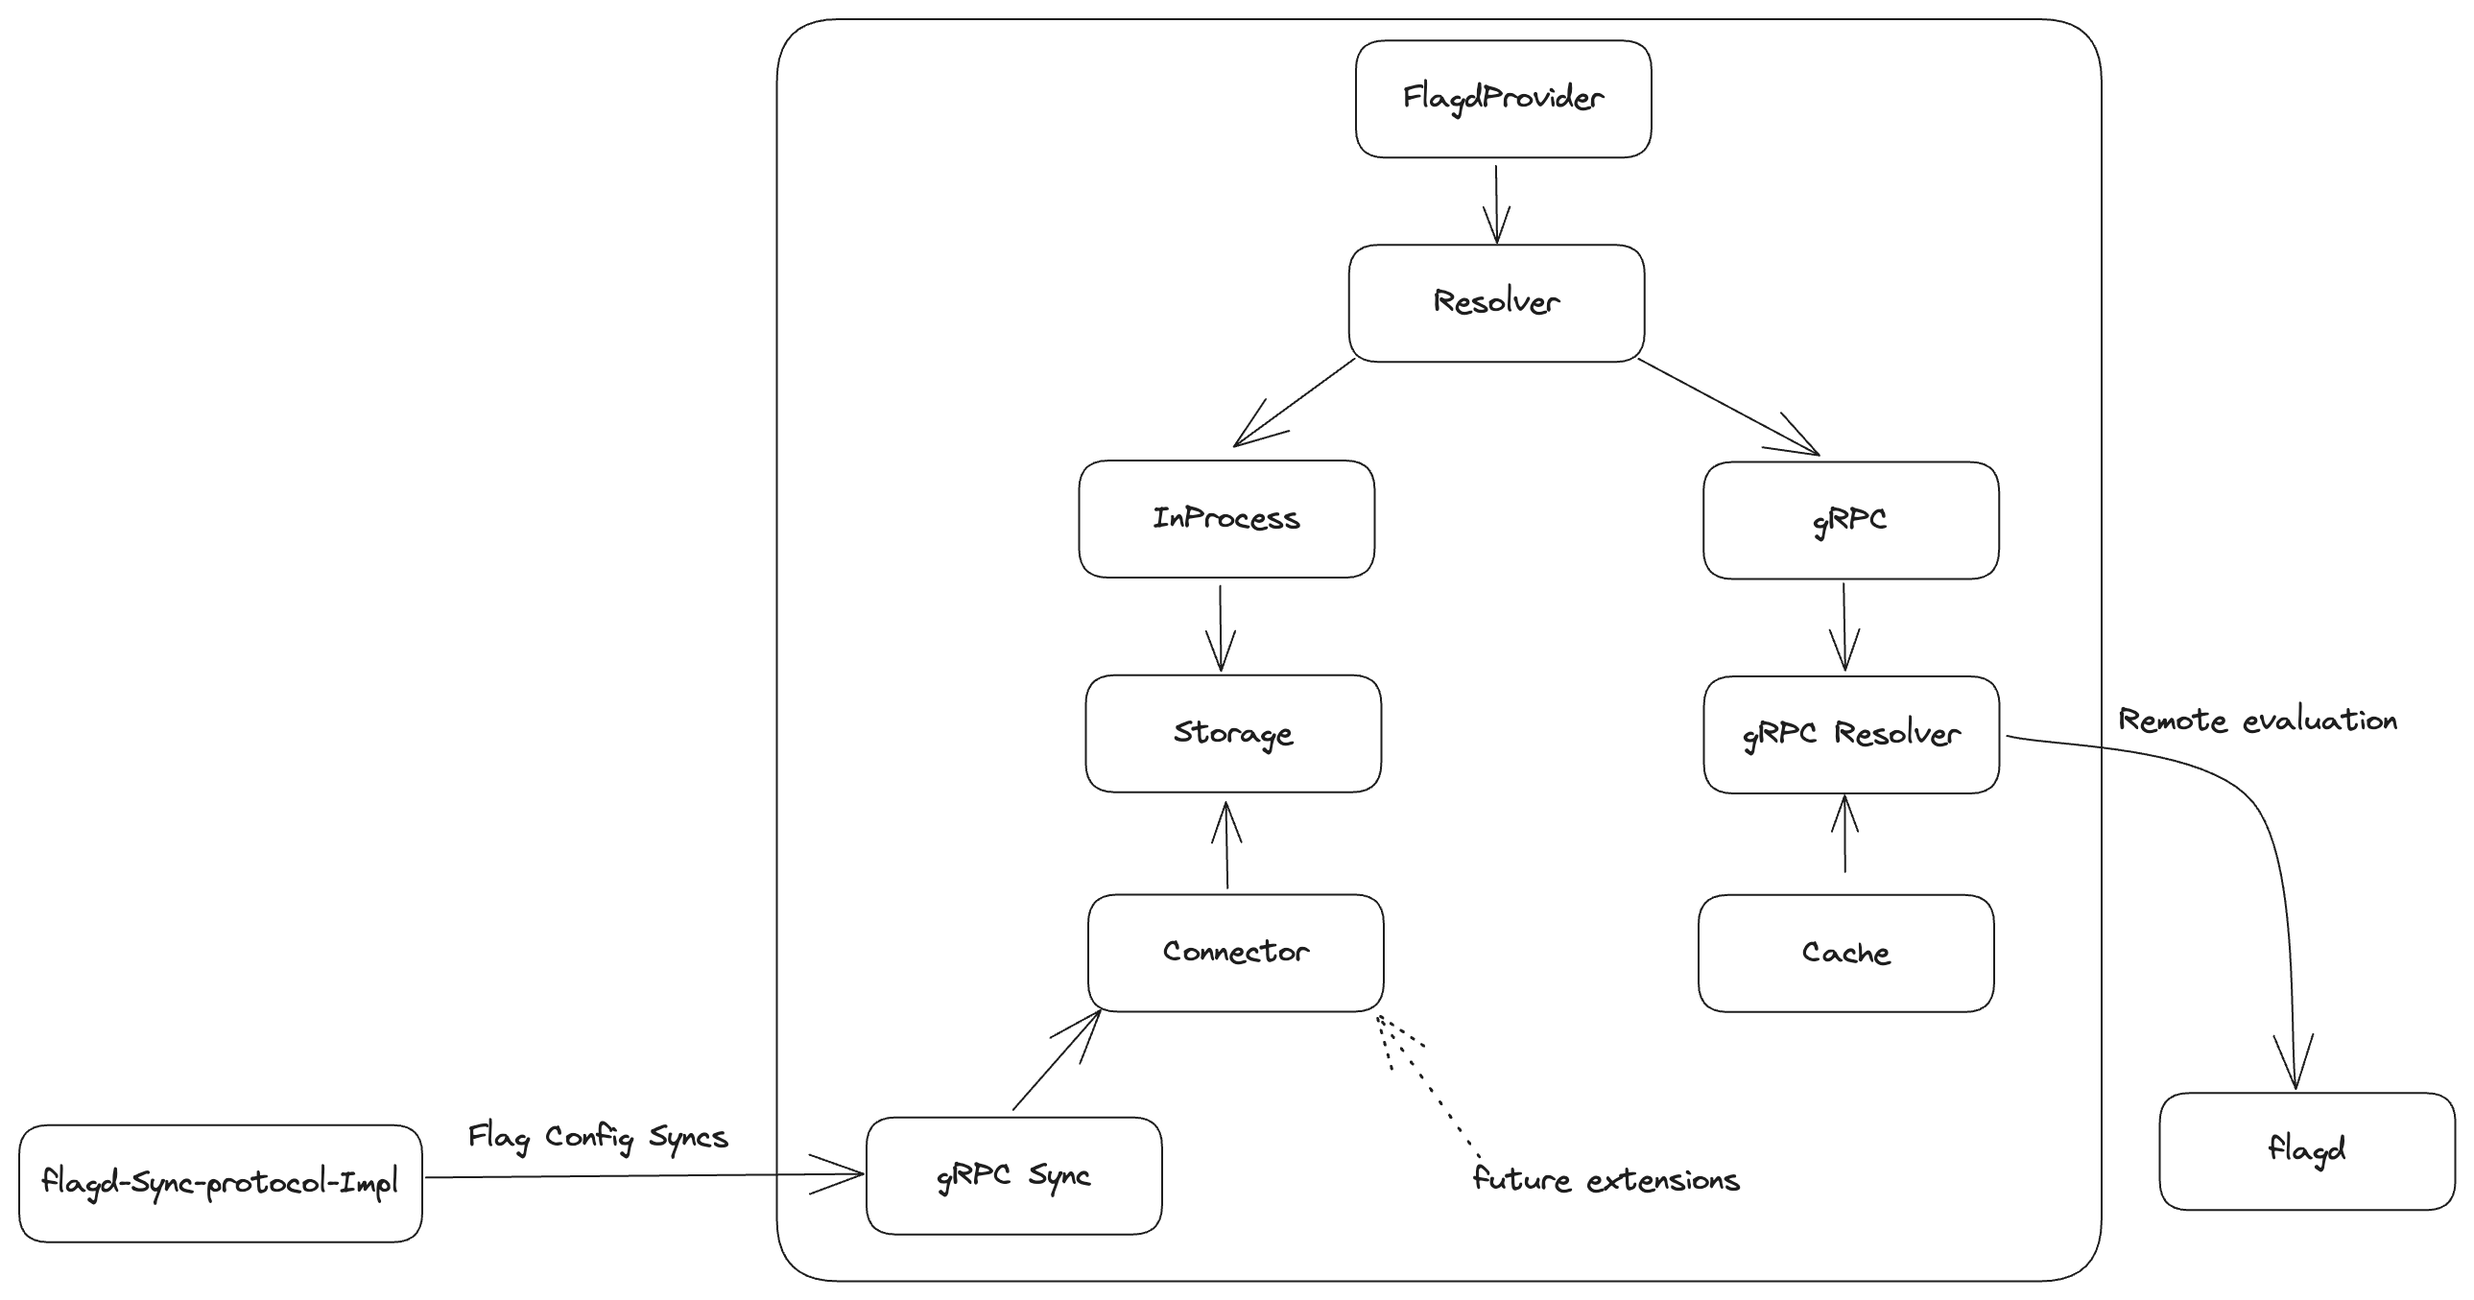
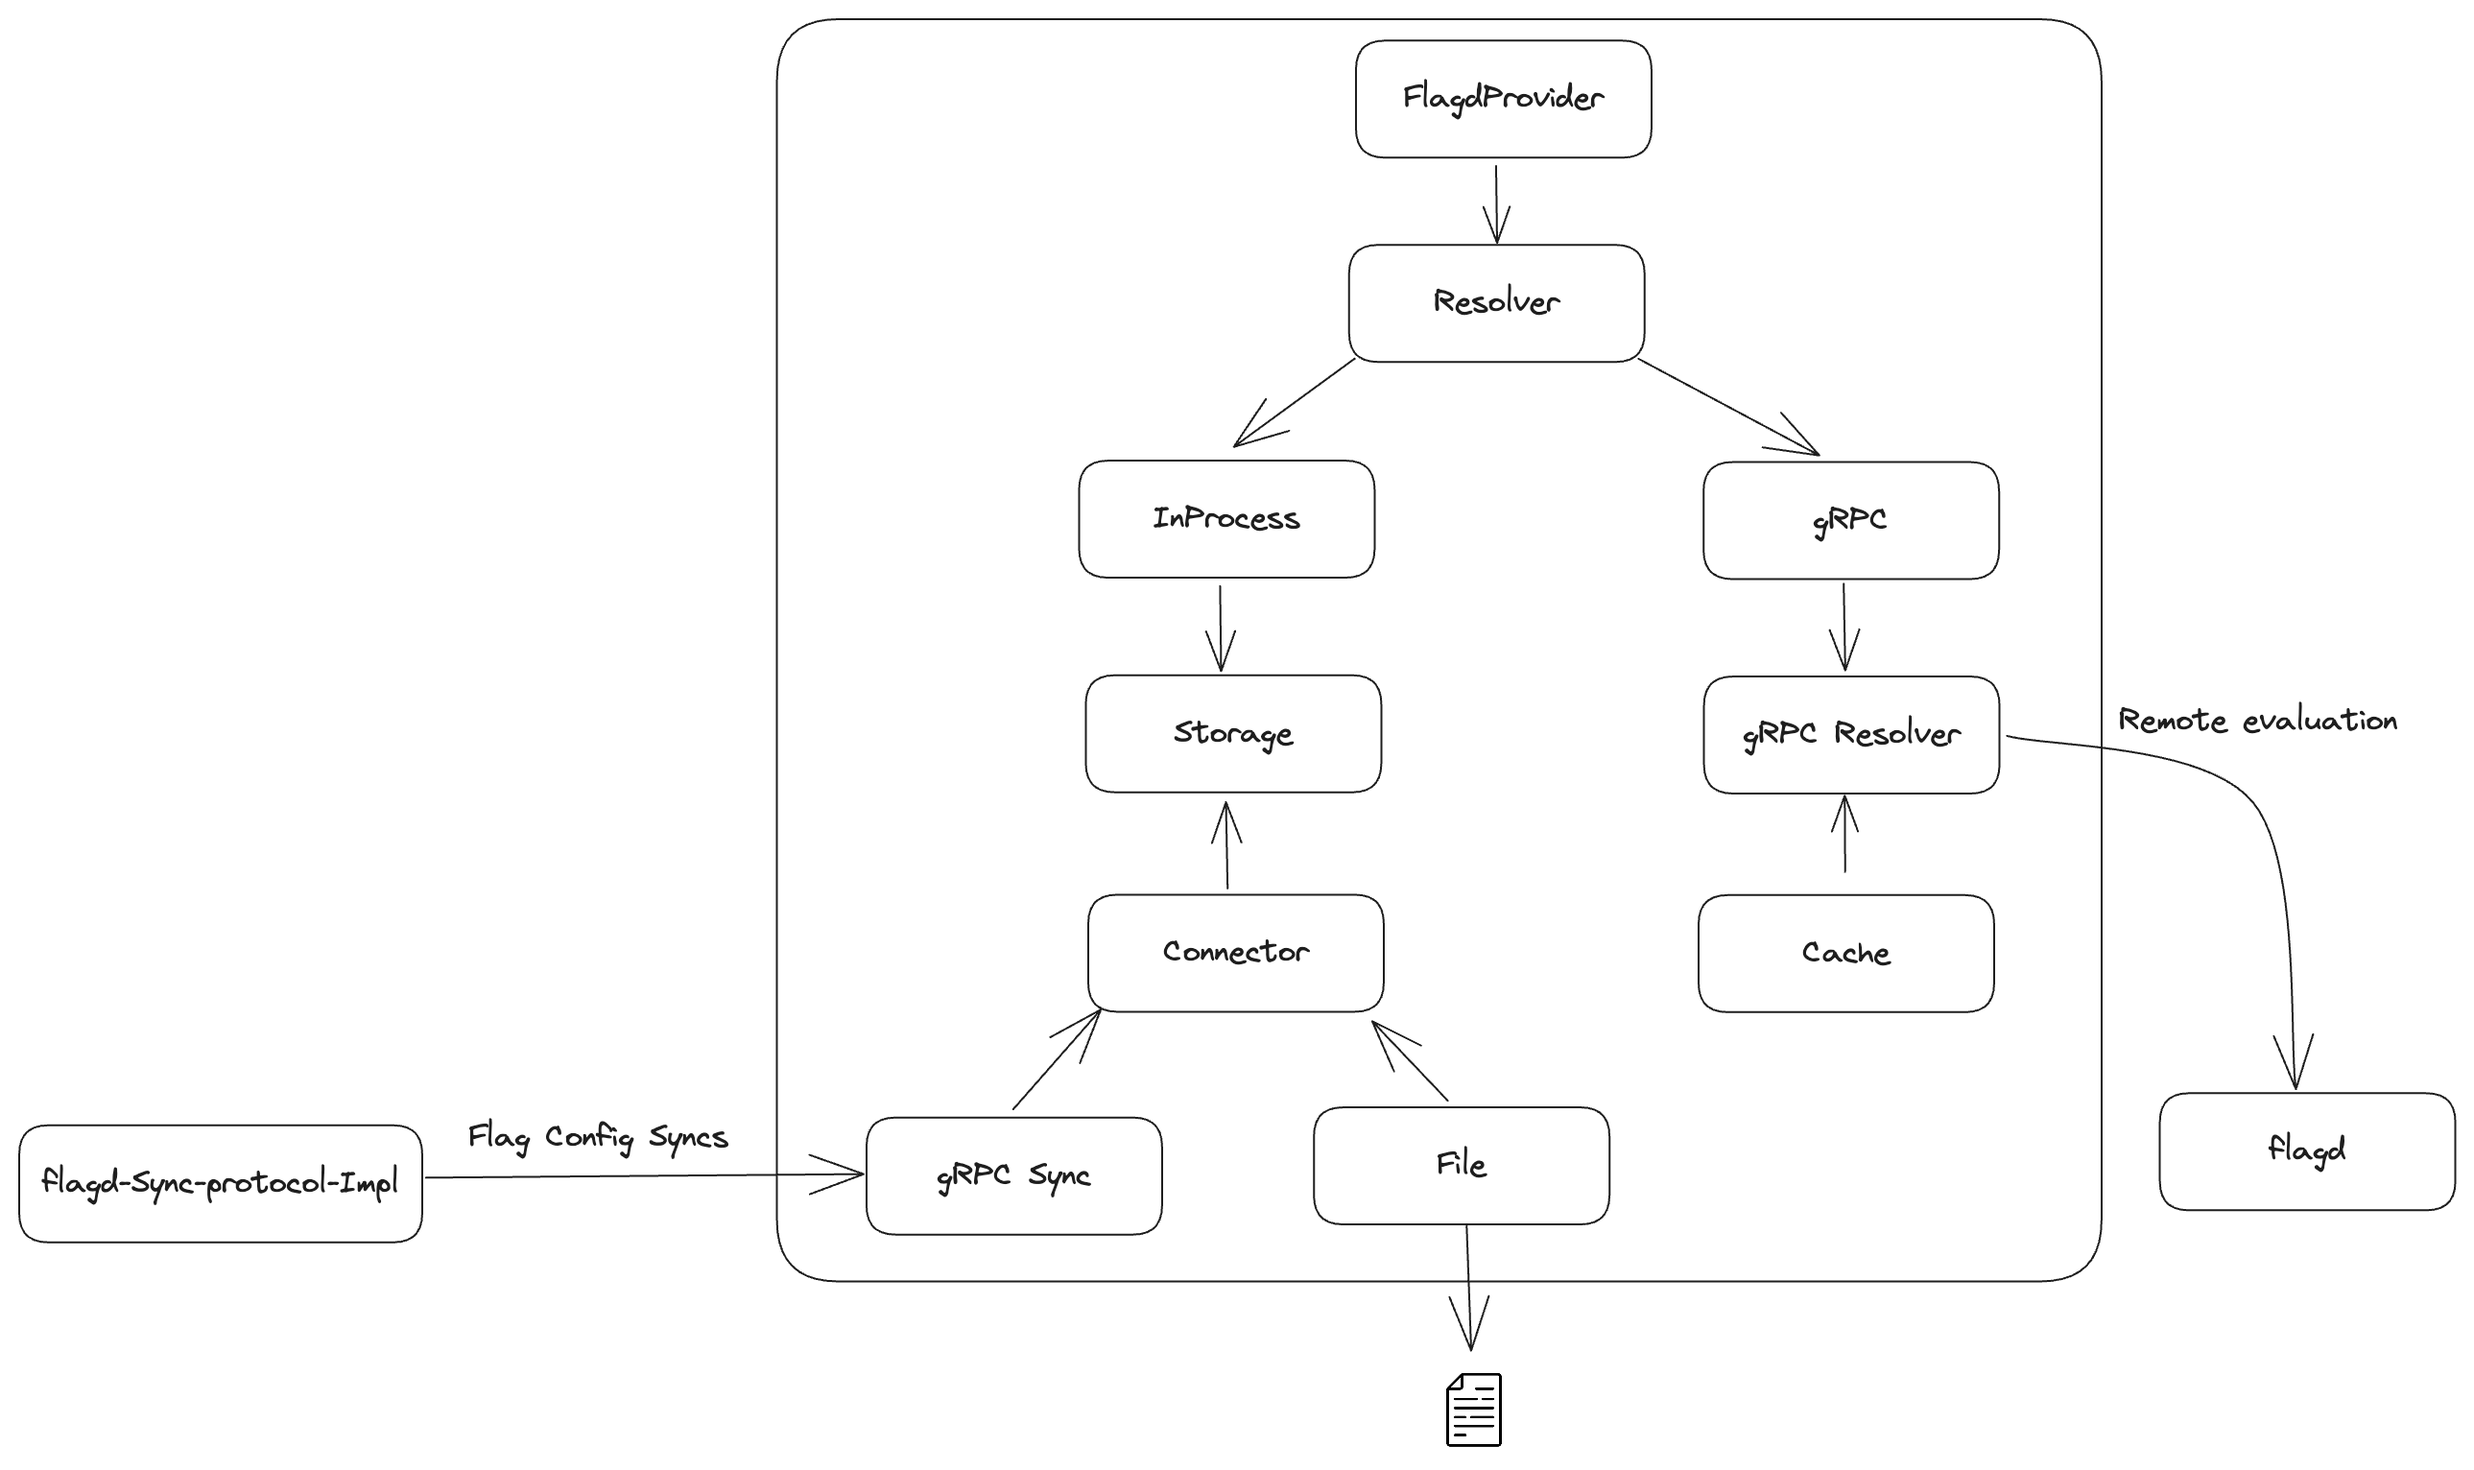
doc updates

diff --git a/providers/flagd/README.md b/providers/flagd/README.md
@@ -51,6 +51,20 @@ FlagdProvider flagdProvider = new FlagdProvider(
 
 In the above example, in-process handlers attempt to connect to a sync service on address `localhost:8013` to obtain [flag definitions](https://github.com/open-feature/schemas/blob/main/json/flagd-definitions.json).
 
+In-process resolver can also work in an offline mode. To enable this mode, you should provide a valid flag configuration file with the option `offlineFlagSourcePath`.
+The file must contain a valid flagd flag source file.
+
+```java
+FlagdProvider flagdProvider = new FlagdProvider(
+        FlagdOptions.builder()
+                .resolverType(Config.Evaluator.IN_PROCESS)
+                .offlineFlagSourcePath("PATH")
+                .build());
+```
+
+Provider will not detect file changes nor re-read the file after the initial read.
+This mode is useful for local development, test cases and for offline application.
+
 ### Configuration options
 
 Options can be defined in the constructor or as environment variables, with constructor options having the highest
